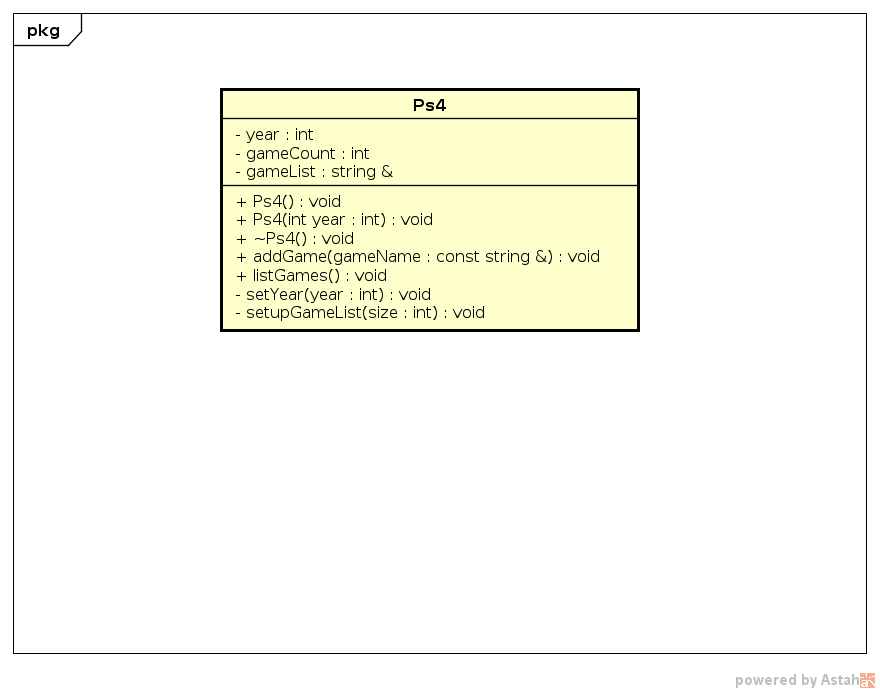
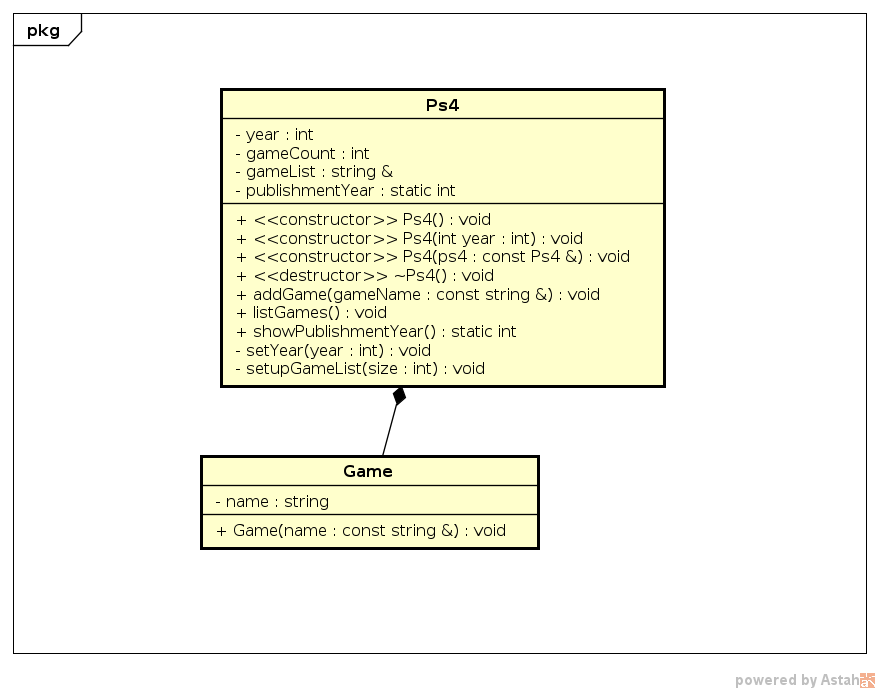
SAVEPOINT

Changed region(s): [[0.2455, 0.1212, 0.767, 0.6061], [0.2148, 0.6364, 0.6136, 0.8182], [0.4602, 0.1212, 0.5216, 0.1818]]

diff --git a/game.cpp b/game.cpp
@@ -1,0 +1,32 @@
+#include <iostream>
+#include "game.h"
+using std::cout;
+using std::endl;
+using std::ostream;
+
+// Public
+
+ostream &operator<<(ostream &output, const Game &game) {
+	output << "Game(" << game.name << ")";
+
+	return output;
+}
+
+bool Game::operator== (const Game &other) const {
+	return this->name == other.name;
+}
+
+// Constructor
+Game::Game(const string &name) {
+	this->name = name;
+};
+
+/* // Destructor */
+/* Game::~Game() { */
+/* 	cout << "Destroying " << (*this) << endl; */
+/* } */
+
+const Game& Game::operator=(const Game &right) {
+	this->name = right.name;
+	return *this;
+}

diff --git a/game.h b/game.h
@@ -1,0 +1,20 @@
+#include <string>
+using std::string;
+using std::ostream;
+
+class Game {
+	friend ostream &operator<<(ostream &, const Game &);
+	bool operator== (const Game &) const;
+	bool operator!= (const Game &other) const {
+		return ! (*this == other);
+	}
+
+	public:
+		Game(const string &);
+		/* ~Game(); */
+
+		const Game &operator=(const Game &);
+
+	private:
+		string name;
+};

diff --git a/ps4.cpp b/ps4.cpp
@@ -73,8 +73,10 @@ void Ps4::addGame(const string &gameName) {
 }
 
 void Ps4::listGames() {
-	for (int i = 0; i < this->gameCount; i++)
-		cout << "Game [" << i + 1 << "] " << this->gameList[i] << endl;
+	for (int i = 0; i < this->gameCount; i++) {
+		Game game(this->gameList[i]);
+		cout << game << endl;
+	}
 }
 
 const Ps4& Ps4::operator=(const Ps4 &right) {

diff --git a/ps4.h b/ps4.h
@@ -1,4 +1,5 @@
 #include <string>
+#include "game.h"
 using std::string;
 using std::ostream;
 
